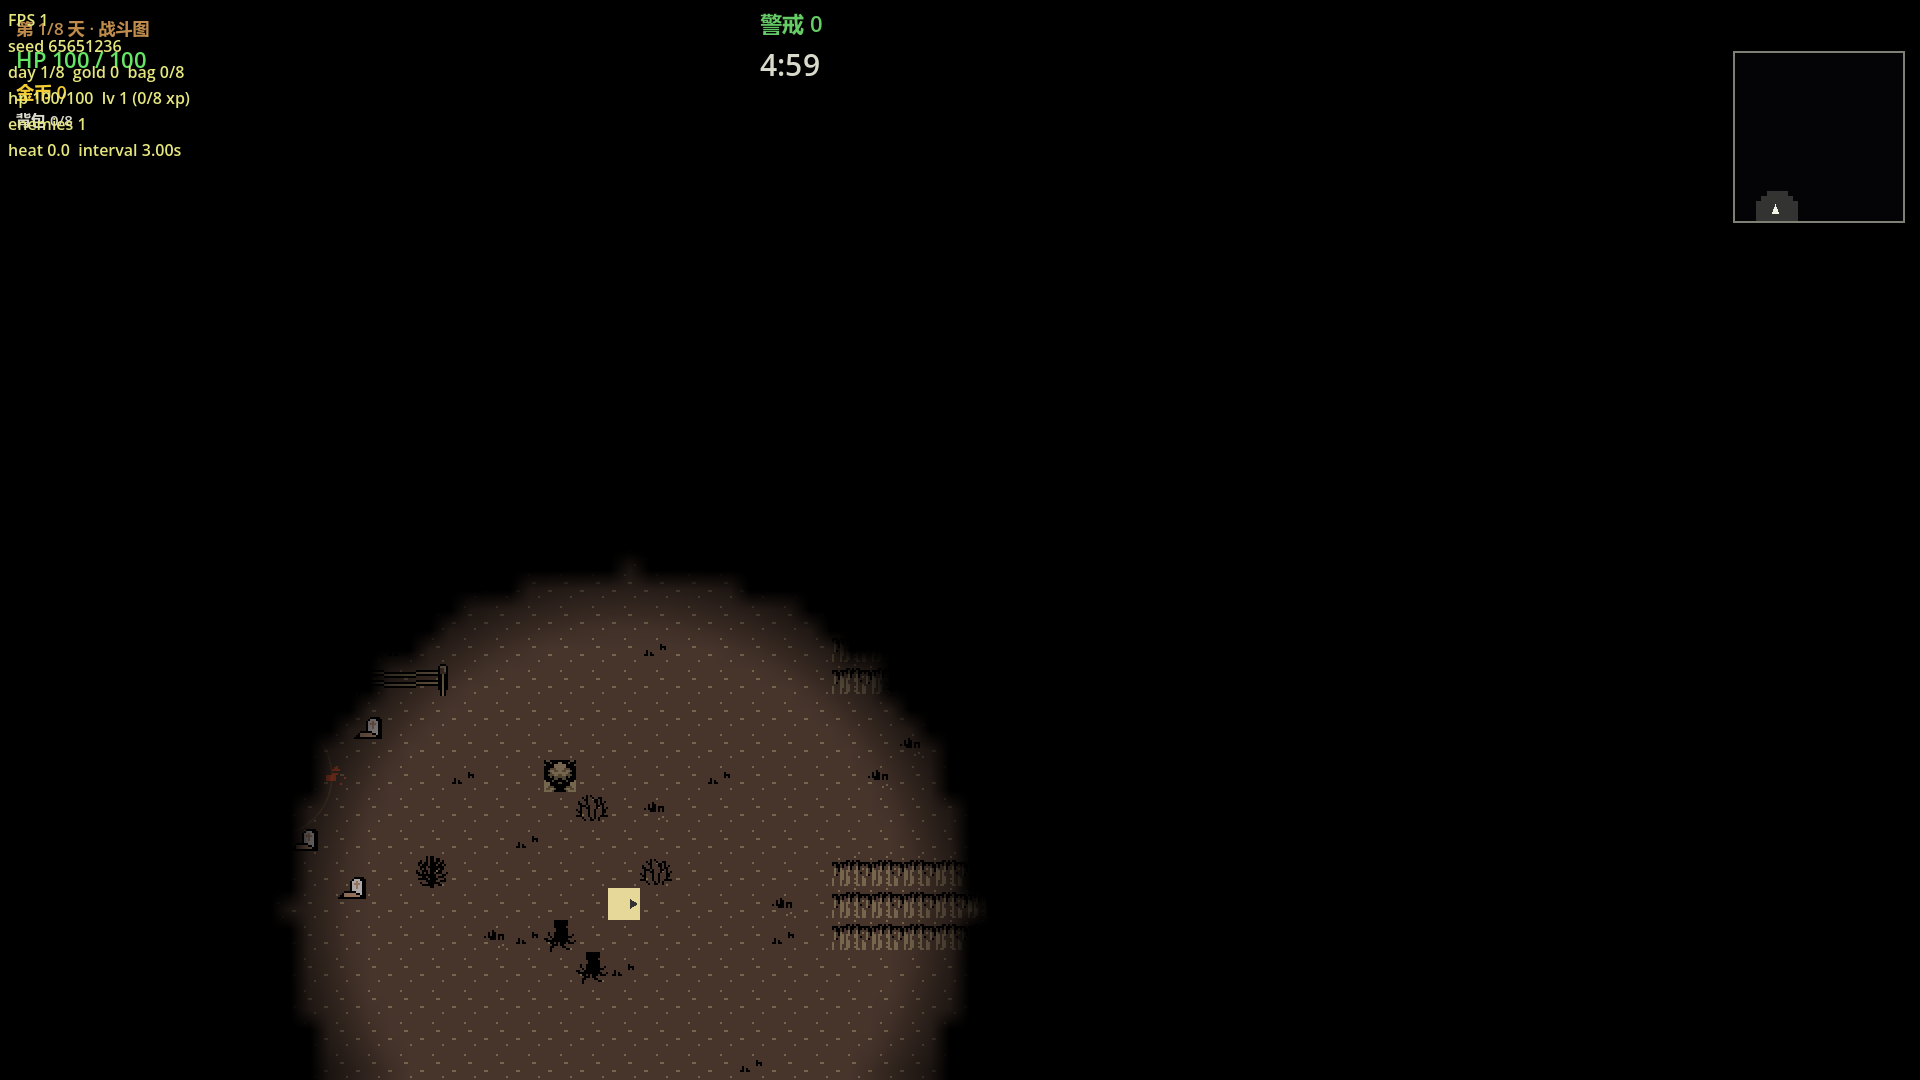
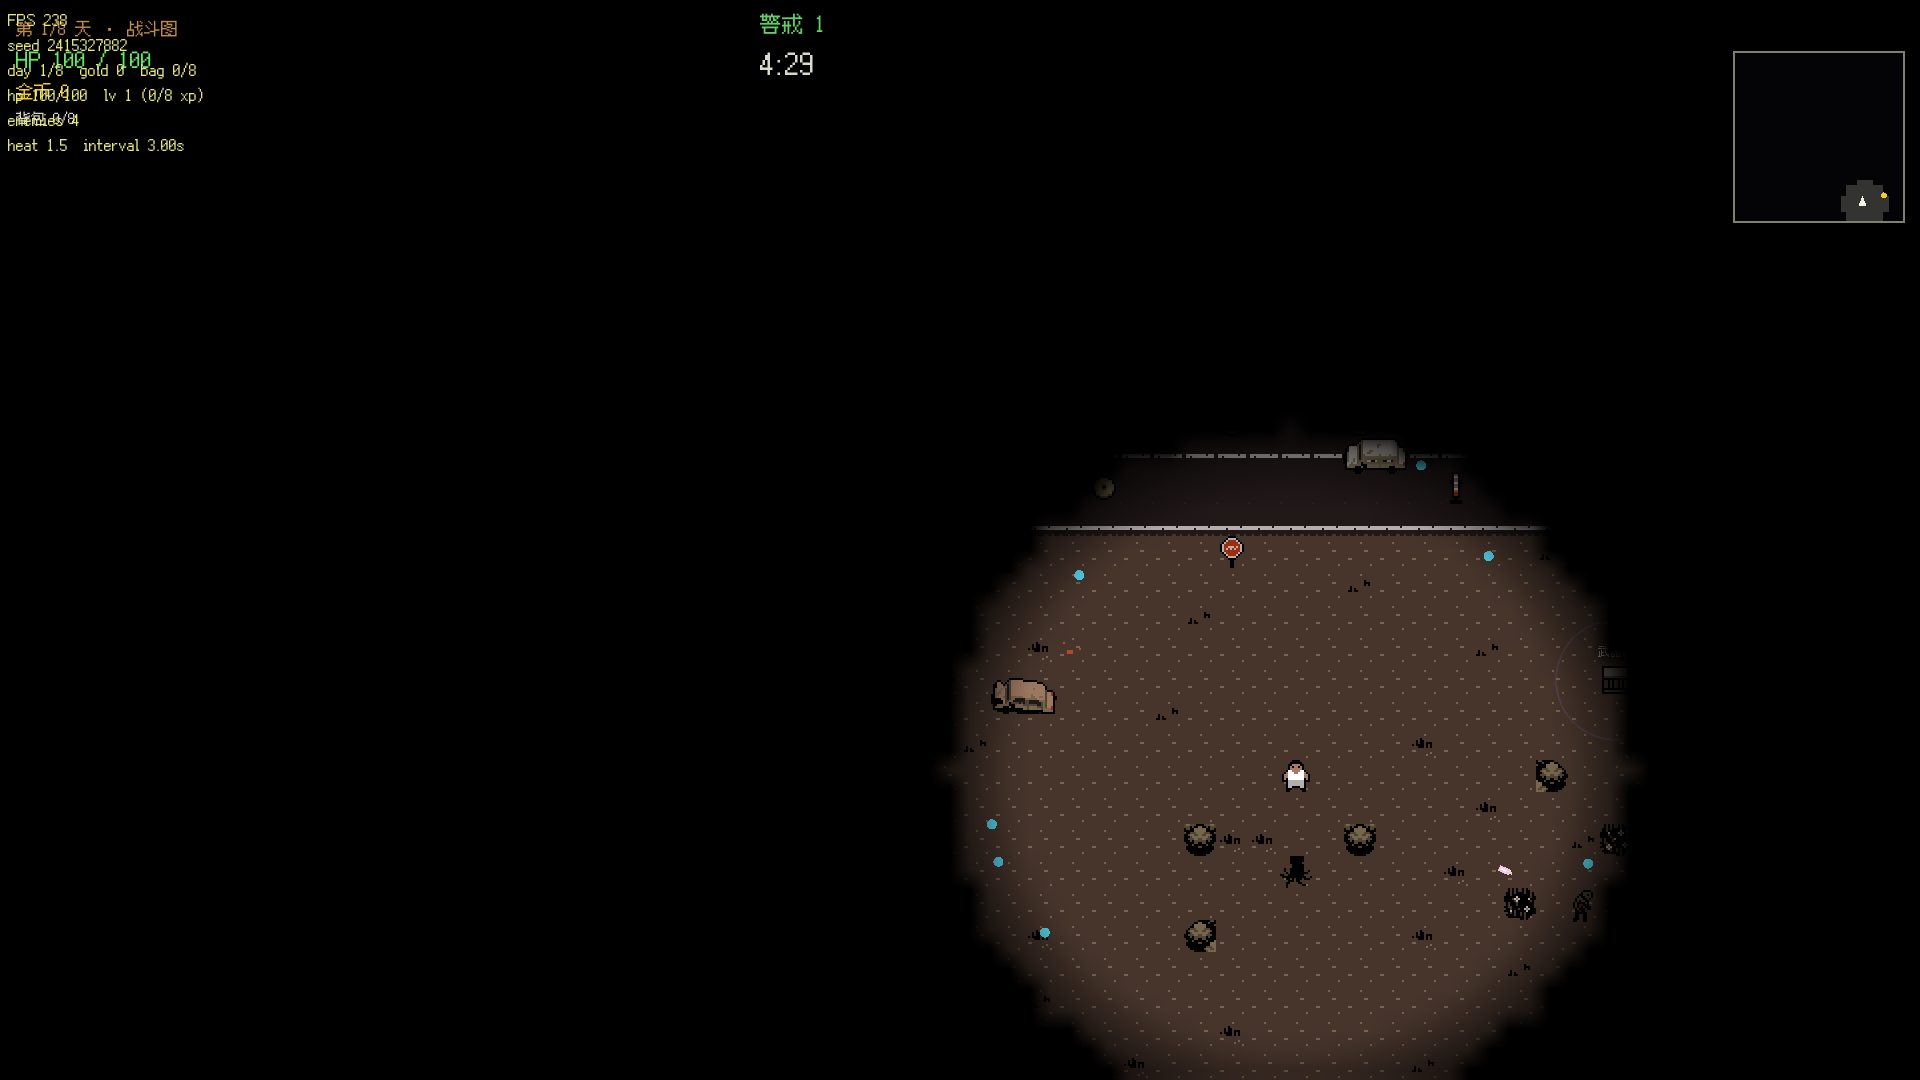
实体素材接线：玩家/丧尸动画帧、武器特效、拾取物贴图、中文像素字体
- Player/EnemyBase 换 AnimatedSprite2D：走路帧+翻面+速度联动帧率，
  错帧起播防齐步走；受击闪白 shader、无敌半透明、死亡血迹贴花
- EnemyData 加 sprite_set（walker/runner/bloater→skinny/kid/big）
- 臃肿者膨胀染色+爆炸帧；精英底板放大自动继承
- 球棒 slash 拖影帧、手枪弹道/枪口焰/命中火花、燃烧瓶爆燃+烟+火苗循环
- 资源点 itembox 染色三态、绷带 bandage_roll、血迹上限 80 FIFO
- Fusion Pixel 12px 全局主题字体；新增 scripts/fx.gd + flash.gdshader
- 30s 实跑零报错；asset-list 13 行推 ✅

diff --git a/docs/asset-list.md b/docs/asset-list.md
@@ -19,8 +19,8 @@
 
 | 素材 | 规格建议 | 状态 | 来源文档 |
 |---|---|---|---|
-| 信使：待机/移动（4 向或 8 向） | 32×32 或 48×48 帧动画 | ⬜ | character |
-| 信使：翻滚动画（含 0.3s 无敌帧闪烁） | 同上 | 🟨 | character/upgrade |
+| 信使：待机/移动（4 向或 8 向） | 32×32 或 48×48 帧动画 | ✅ player_walk 9 帧+横向翻面（站立=定格帧） | character |
+| 信使：翻滚动画（含 0.3s 无敌帧闪烁） | 同上 | 🟨 走路帧加速代用+半透明无敌 | character/upgrade |
 | 玩家受击闪烁（0.5s 无敌） | shader/调色即可，无需贴图 | 🟨 | upgrade |
 | 屠夫：待机/移动 + 护盾外壳特效 | 同信使 | ⏸ | character |
 | 猎人：待机/移动 + 诱饵装置贴图 | 同信使 | ⏸ | character |
@@ -31,10 +31,10 @@
 
 | 素材 | 轮廓要求 | 状态 | 来源文档 |
 |---|---|---|---|
-| 普通丧尸：移动/死亡溶解 | 中型，暗绿 | 🟨 | enemy |
-| 奔跑者：移动（前倾跑姿） | 小型，亮红 | 🟨 | enemy |
-| 臃肿者：移动/死亡膨胀预警（1s）/爆炸 | 大型，土黄，鼓胀 | 🟨 | enemy |
-| 精英通用：底板 ×1.5 放大 + 头顶血条 + 词缀图标位 | 任意底板复用 | 🟨 | enemy |
+| 普通丧尸：移动/死亡溶解 | 中型，暗绿 | ✅ skinny_walk 9 帧+死亡血迹贴花 | enemy |
+| 奔跑者：移动（前倾跑姿） | 小型，亮红 | ✅ kid_walk 9 帧（速度联动帧率） | enemy |
+| 臃肿者：移动/死亡膨胀预警（1s）/爆炸 | 大型，土黄，鼓胀 | ✅ big_walk 9 帧+膨胀染色+explosion 6 帧 | enemy |
+| 精英通用：底板 ×1.5 放大 + 头顶血条 + 词缀图标位 | 任意底板复用 | ✅ 底板帧图复用放大（词缀仍文字，图标行另计） | enemy |
 | 词缀图标 ×3（狂暴/召唤/坚韧） | 16×16 图标 | ⬜ | enemy/ui |
 | 总攻 Boss 占位（三词缀超级精英） | 精英底板再放大，复用 | ⬜ | game-design |
 | 啐吐者（驼背紫绿）+ 酸弹/酸池 | 中型 | ⏸ | enemy |
@@ -46,9 +46,9 @@
 
 | 素材 | 说明 | 状态 | 来源文档 |
 |---|---|---|---|
-| 钉板球棒：挥砍弧特效（150° 扇形）+ 击退表现 | 弧形拖影即可 | 🟨 | weapon |
-| 手枪：子弹（直线弹道）+ 枪口闪光 | 小点+闪光帧 | 🟨 | weapon |
-| 燃烧瓶：投掷弧线 + 落地火域（100px 半径，4s） | 火焰循环帧 | 🟨 M3 双圆闪烁灼烧区占位（无投掷弧线） | weapon |
+| 钉板球棒：挥砍弧特效（150° 扇形）+ 击退表现 | 弧形拖影即可 | ✅ slash 4 帧甩向挥击方向+淡弧范围提示 | weapon |
+| 手枪：子弹（直线弹道）+ 枪口闪光 | 小点+闪光帧 | ✅ tracer 弹道+muzzle_flash+命中 spark | weapon |
+| 燃烧瓶：投掷弧线 + 落地火域（100px 半径，4s） | 火焰循环帧 | ✅ 落地爆燃+烟+火苗循环帧散布（投掷弧线仍无，可后补） | weapon |
 | 武器图标 ×3（球棒/手枪/燃烧瓶，HUD 与武器箱用） | 24×24 | ⬜ | weapon/ui |
 | 霰弹枪/钉枪/链锯/复合弓 + 各自弹道特效与图标 | | ⏸ | weapon |
 | 手雷/捕兽夹/闪光弹/诱饵收音机/肾上腺素 + 图标 | | ⏸ | weapon |
@@ -60,9 +60,9 @@
 |---|---|---|---|
 | 经验球（吸附轨迹特效） | 小型发光点 | 🟨 | upgrade/ui |
 | 金币（吸附轨迹特效） | | 🟨 | economy/ui |
-| 绷带（场景散布） | | 🟨 M4 白底红十字占位 | economy |
-| 物资箱/货币箱/武器箱（关闭/驻留进度/开启 3 态） | 驻留进度条附着 | 🟨 M4 色块+读条弧占位 | economy |
-| 经验矿（含挖完消失） | | 🟨 M4 色块占位（淡出消失） | economy |
+| 绷带（场景散布） | | ✅ bandage_roll 贴图 | economy |
+| 物资箱/货币箱/武器箱（关闭/驻留进度/开启 3 态） | 驻留进度条附着 | ✅ itembox 按类型染色+开启换破损箱+读条弧 | economy |
+| 经验矿（含挖完消失） | | ✅ itembox 青色染色（淡出消失） | economy |
 | 价值物图标 ×3：罐头（白）/药品（蓝）/金条（紫） | 背包与拾取横幅用，边框色=档位 | 🟨 M4 纯文字（HUD 背包行/替换列表） | economy |
 | 价值物图标每档补至 3~4 个具名 | 文案后定 | ⏸ | economy |
 | 怀表（商店货架图标） | | ⏸ | economy |
@@ -129,7 +129,7 @@
 
 | 素材 | 说明 | 状态 |
 |---|---|---|
-| 中文 UI 字体（含数字，血量/金币/天数/倒计时用） | 需可免费商用（候选：思源黑体/文泉驿），MVP 可先用系统默认 | ⬜ |
+| 中文 UI 字体（含数字，血量/金币/天数/倒计时用） | 需可免费商用（候选：思源黑体/文泉驿），MVP 可先用系统默认 | ✅ Fusion Pixel 12px（OFL，全局主题字体） |
 | 标题/氛围字体 | 内容期 | ⏸ |
 
 ## 管理约定

diff --git a/docs/mvp-plan.md b/docs/mvp-plan.md
@@ -19,6 +19,8 @@
 
 ## 进度备注
 
+- 实体素材接线（2026-07-18）：玩家/丧尸全部换正式帧图——Player AnimatedSprite2D（player_walk 9 帧，输入驱动播放/翻面/速度联动帧率，站立定格，无敌半透明，死亡暗红+血迹）；EnemyData 加 sprite_set 字段（walker→skinny_walk、runner→kid_walk、bloater→big_walk），EnemyBase 换 AnimatedSprite2D（错帧起播防齐步走、受击闪白改 flash.gdshader 材质、轮廓色降为 25% 染色保留颜色语言、死亡掉血迹贴花）；臃肿者膨胀改 sprite 缩放染色+爆炸 6 帧；精英底板复用自动继承。武器特效：球棒 slash 4 帧拖影+淡化弧提示、手枪 tracer 弹道贴图+枪口焰单帧+命中 spark、燃烧瓶落地爆燃+烟+火苗循环帧散布（错帧）+区域圈降透明度。资源点 itembox 贴图按类型染色+开完换破损箱；绷带 bandage_roll。新增 scripts/fx.gd（SpriteFrames 缓存/一次性动画/循环动画/单帧特效/血迹贴花上限 80 先进先出）+ flash.gdshader。Fusion Pixel 12px 设为全局主题字体（project.godot [gui]）。QA：30s 实跑零报错，截图确认玩家/丧尸/血迹/箱体/字体全部上屏。asset-list 对应 13 行推 ✅。
+
 - 地图布局重设计（2026-07-18，试玩反馈修订：树桩碰撞/围栏圈死区/道路断头/地面噪点四项）：道路统一——全部 6 模块横向沥青干道贯穿 rows 18-22（乡村模块 _road_h_worn 磨损版：中线断续+路面泥斑做旧），任意拼接组合无缝；纵向路只在十字路口模块内部走行、端头 _roadblock_v 路障封口（残骸+锥桶，疏散封锁线叙事）不触上下接缝；土径降级为干道→POI 短支径。围栏退役封闭矩形：改 _rail/_picket_run 两端开放短段（≤6 格）+ _board_corner L 形残角，庄稼田全部去围栏直接铺（可走视觉密度层）。碰撞白名单：tile 层 SOLID_OVERRIDES 把 tree_stump/straw_mid 降为装饰；prop 默认 solid=false，仅建筑/整车残骸/油泵/风车/straw_big 显式碰撞（墓碑/路牌/稻草人/轮胎/锥桶/信箱全放行）。地面降噪（twigs 15%→6%）+ 花丛灌木 _cluster 成簇替代均匀撒。加油站泵岛前场、杂货店门前人行道整片沥青铺装。插槽坐标与 MapModuleTiled 接口不变。QA：6 模块+拼接预览重渲、游戏内实跑零报错。
 - 实体素材导入（2026-07-17，ba1dbbc）：玩家/丧尸走路帧、拾取物/武器特效、中文像素字体、署名清单——接线归下一步。
 